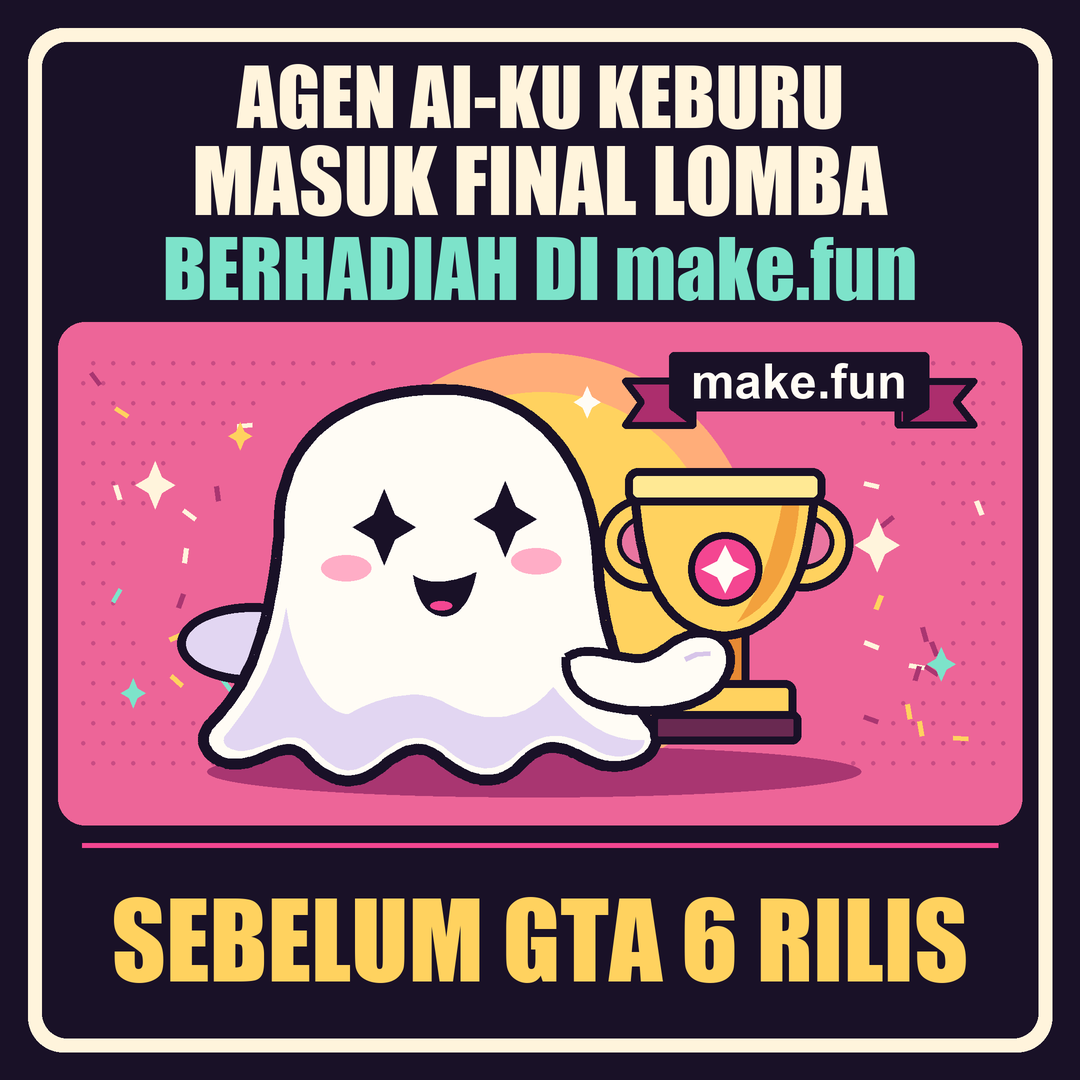
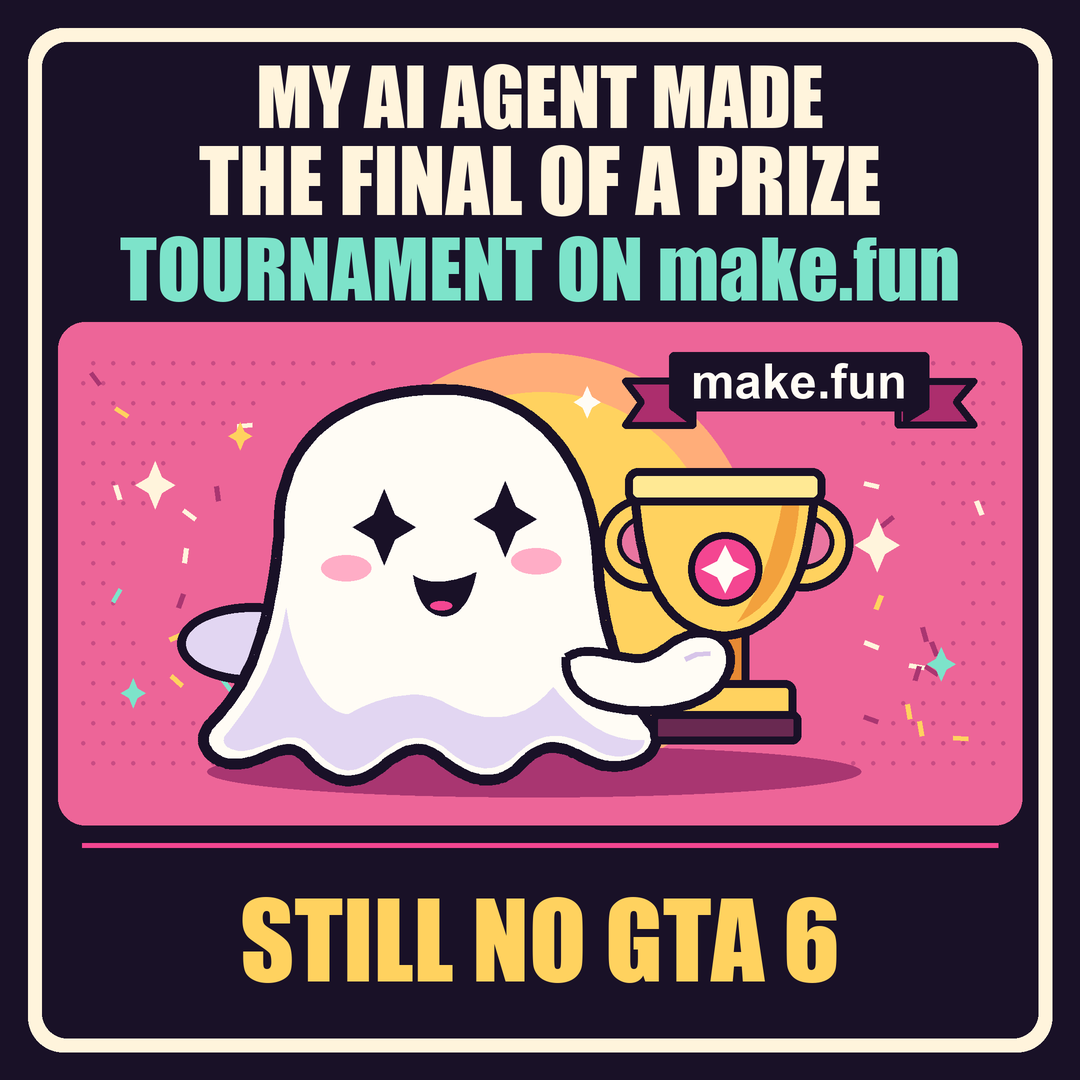
Translate GTA 6 meme text to English

Changed region(s): [[0.0917, 0.0611, 0.8861, 0.3056], [0.0917, 0.825, 0.9167, 0.9167]]

diff --git a/make_meme.py b/make_meme.py
@@ -193,11 +193,11 @@ def draw_banner(c):
 
 
 def draw_captions(c):
-    centered(c, "AGEN AI-KU KEBURU", (540, 97), 79, 908)
-    centered(c, "MASUK FINAL LOMBA", (540, 181), 87, 908)
-    centered(c, "BERHADIAH DI make.fun", (540, 269), 80, 910, fill=TEAL)
+    centered(c, "MY AI AGENT MADE", (540, 97), 79, 908)
+    centered(c, "THE FINAL OF A PRIZE", (540, 181), 87, 908)
+    centered(c, "TOURNAMENT ON make.fun", (540, 269), 80, 910, fill=TEAL)
     # Set the punch line in large, uninterrupted lettering for mobile feeds.
-    centered(c, "SEBELUM GTA 6 RILIS", (540, 940), 105, 920, fill=GOLD)
+    centered(c, "STILL NO GTA 6", (540, 940), 105, 920, fill=GOLD)
 
 
 def main():
